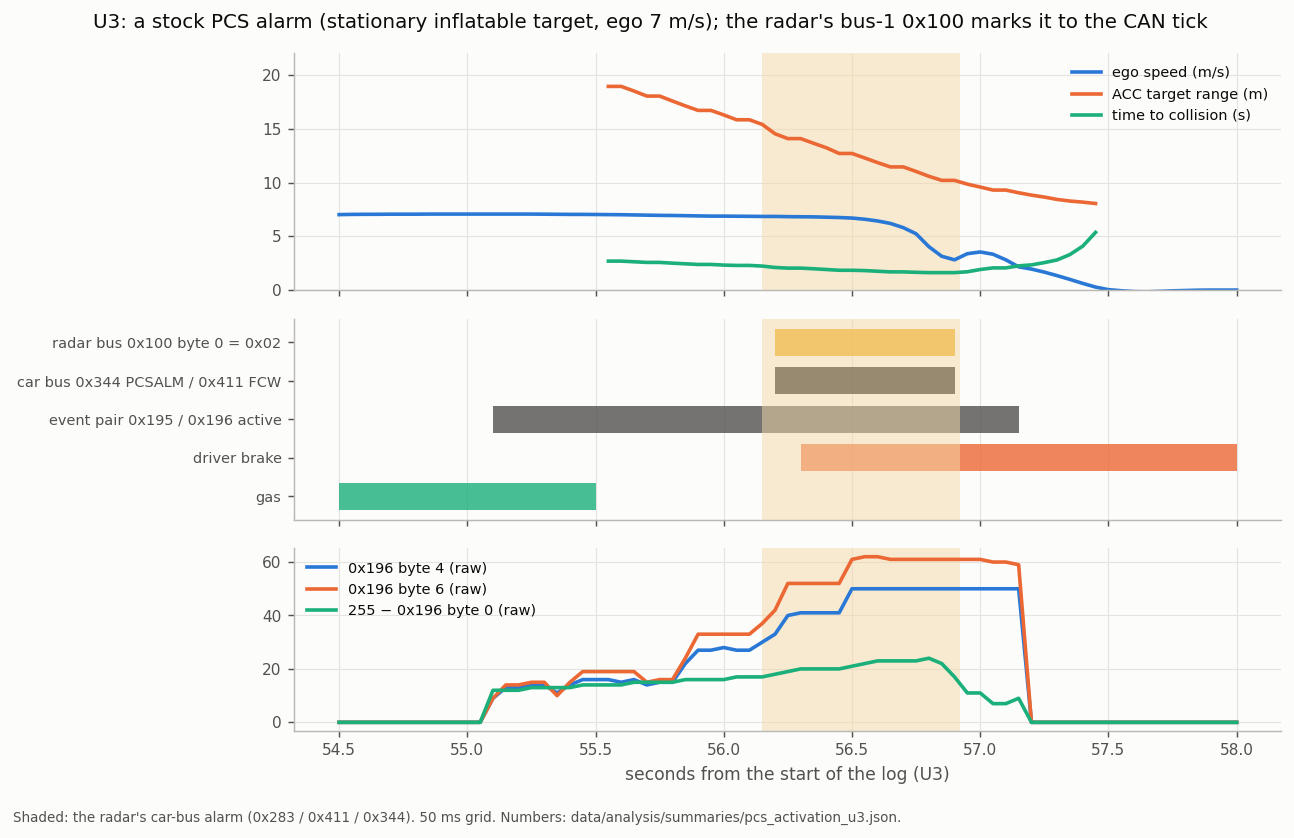
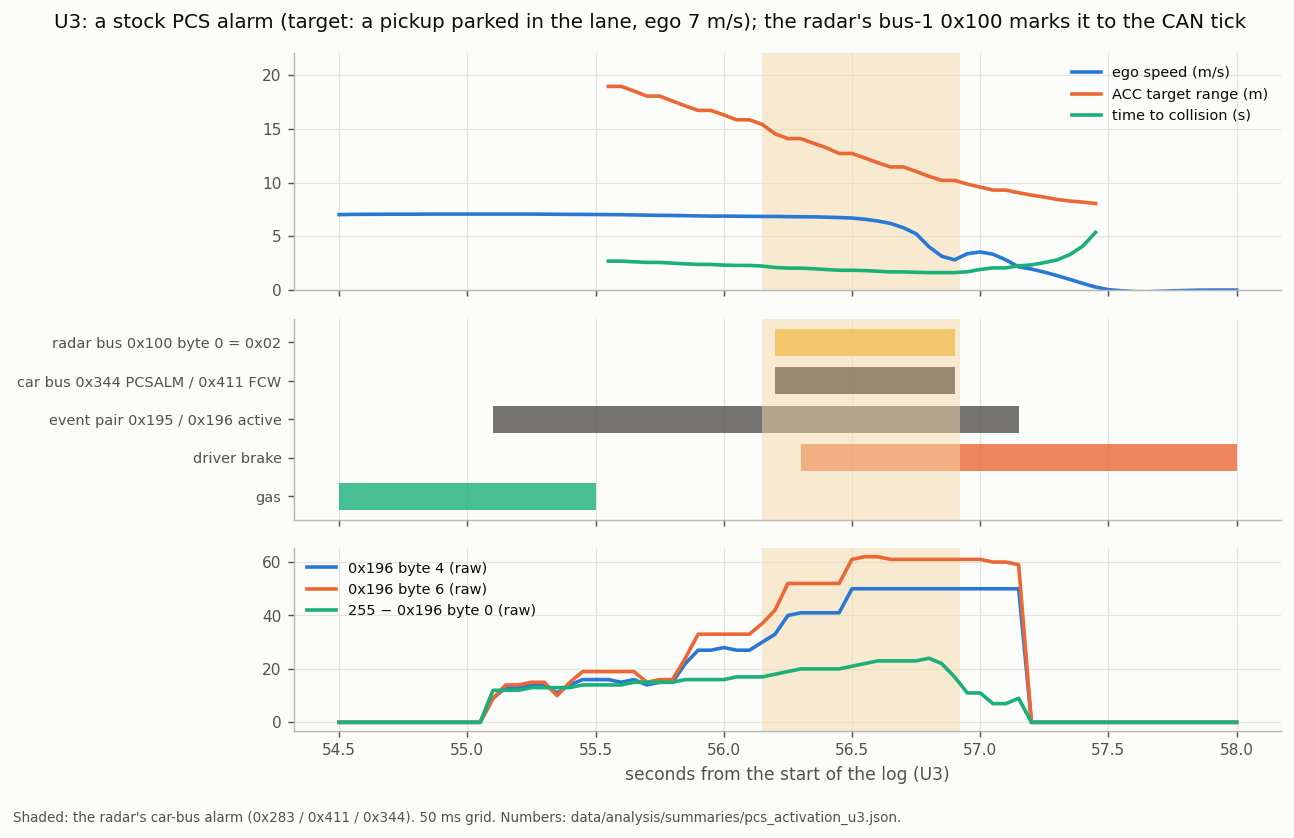
fix: U3's PCS alarm was for the parked pickup, not the inflatable in front of it (#131)
The radar's only object and ACC target read 8 m at the stop while the inflatable
was at the bumper; an air-filled decoration is nearly invisible at 77 GHz.
Corrects doc 13 and the summary, and asks for radar-reflective test targets.

Changed region(s): [[0.0309, 0.0, 0.9583, 0.031]]

diff --git a/tools/make_analysis_figures.py b/tools/make_analysis_figures.py
@@ -1179,7 +1179,7 @@ def pcs_activation_u3():
     ax[2].legend(loc="upper left", fontsize=8); ax[2].set_xlabel("seconds from the start of the log (U3)")
     for x in ax:
         x.axvspan(a, b, color="#f5d9a8", alpha=0.5, lw=0)
-    fig.suptitle("U3: a stock PCS alarm (stationary inflatable target, ego 7 m/s); the radar's bus-1 0x100 marks it to the CAN tick", fontsize=11)
+    fig.suptitle("U3: a stock PCS alarm (target: a pickup parked in the lane, ego 7 m/s); the radar's bus-1 0x100 marks it to the CAN tick", fontsize=11)
     fig.tight_layout()
     save(fig, "pcs_activation_u3", "Shaded: the radar's car-bus alarm (0x283 / 0x411 / 0x344). 50 ms grid. "
          "Numbers: data/analysis/summaries/pcs_activation_u3.json.")

diff --git a/docs/13_car_bus_messages.md b/docs/13_car_bus_messages.md
@@ -163,15 +163,17 @@ leaves the radar afterwards.
 
 ![U3: stock PCS alarm against the radar's bus-1 0x100](img/analysis/pcs_activation_u3.png)
 
-U3 is a deliberate test on the second car (stock ACC, radar enabled, no filter): a stationary inflatable target in
-the lane, approached at 7 m/s. The radar's **PCS alarm stage** ran from 56.151 to 56.922 s. It started at a time to
-collision of 2.1 s and a range of 14.5 m. The driver braked 0.12 s later and stopped short of the target, so the braking
-stages were not reached.
+U3 is a deliberate test on the second car (stock ACC, radar enabled, no filter), approached at 7 m/s: an inflatable
+decoration stood in the lane, with a pickup parked a few metres behind it. **The radar tracked the pickup, not the
+inflatable.** Its only object and its ACC target (one ID throughout) read 8 m at the stop, while the inflatable was at
+the bumper, and no second object appeared. Air-filled vinyl reflects little at 77 GHz. The radar's **PCS alarm stage**
+ran from 56.151 to 56.922 s, at a time to collision of 2.2 s and a range of 15.4 m to the pickup. The driver braked
+0.12 s later and stopped with the inflatable at the bumper, so the braking stages were not reached.
 
 | t (s) | radar bus (bus 1) | car bus (bus 0) |
 |---|---|---|
 | 55.09 | event pair 0x195 / 0x196 leaves idle | |
-| 55.6 | ACC target appears: 18.9 m, closing at 7.0 m/s (a stationary target) | |
+| 55.6 | ACC target appears: the parked pickup, 18.9 m, closing at 7.0 m/s | |
 | **56.1506** | **0x100 byte 0 → 0x02** | **same CAN tick:** 0x283 → `… 02 8E`, 0x411 → FCW; 0x344 → `PCSALM` at its next slot (56.180) |
 | 56.27 | | driver brake |
 | 56.913-56.922 | 0x100 → 0 | 0x411, 0x283, 0x344 back to idle |
@@ -252,13 +254,17 @@ What this means for a build today:
 ### What is needed, in order
 
 1. **The alarm with the radar disabled.** This decides whether a relay is possible at all. Repeat a low-speed
-   approach to an inflatable PCS test target under alpha long (radar disabled) with bus 1 logged, and see whether 0x100 goes to 0x02.
+   approach to a soft PCS test target under alpha long (radar disabled) with bus 1 logged, and see whether 0x100 goes to 0x02.
    The car does not warn or brake in this setup, so the driver brakes as usual. If 0x100 stays 0, a disabled radar
    does not announce its decision and the relay route is closed.
 2. **A recorded stock activation that reaches braking**, with bus 0 and bus 1 logged. The alarm stage is recorded
-   (U3); the braking stages need an approach where the driver does not brake first: an inflatable PCS test target on a
+   (U3); the braking stages need an approach where the driver does not brake first: a soft PCS test target on a
    closed lot, somewhat faster than U3, from a car with the radar enabled (stock ACC, or a radar CAN filter). Bus 0
    gives the braking sequence in 0x283 / 0x344; bus 1 shows which radar-bus values mark it, next to 0x100.
+
+   **The target must be visible to the radar.** Use a radar-reflective soft target, of the kind made for ADAS / NCAP testing.
+   An inflatable decoration is close to invisible at 77 GHz (U3), and with nothing parked behind it the radar would
+   see nothing at all.
 3. **A parked 0x411 test.** With the radar disabled, send upstream's "PCS off" 0x411 and see whether the dash changes from
    "Malfunction" to "PCS off". This names the dash's input. It is the same kind of parked test as O5.
 4. **A fork-level design** of the panda limits and the health check, reviewed before anything brakes the car on the
